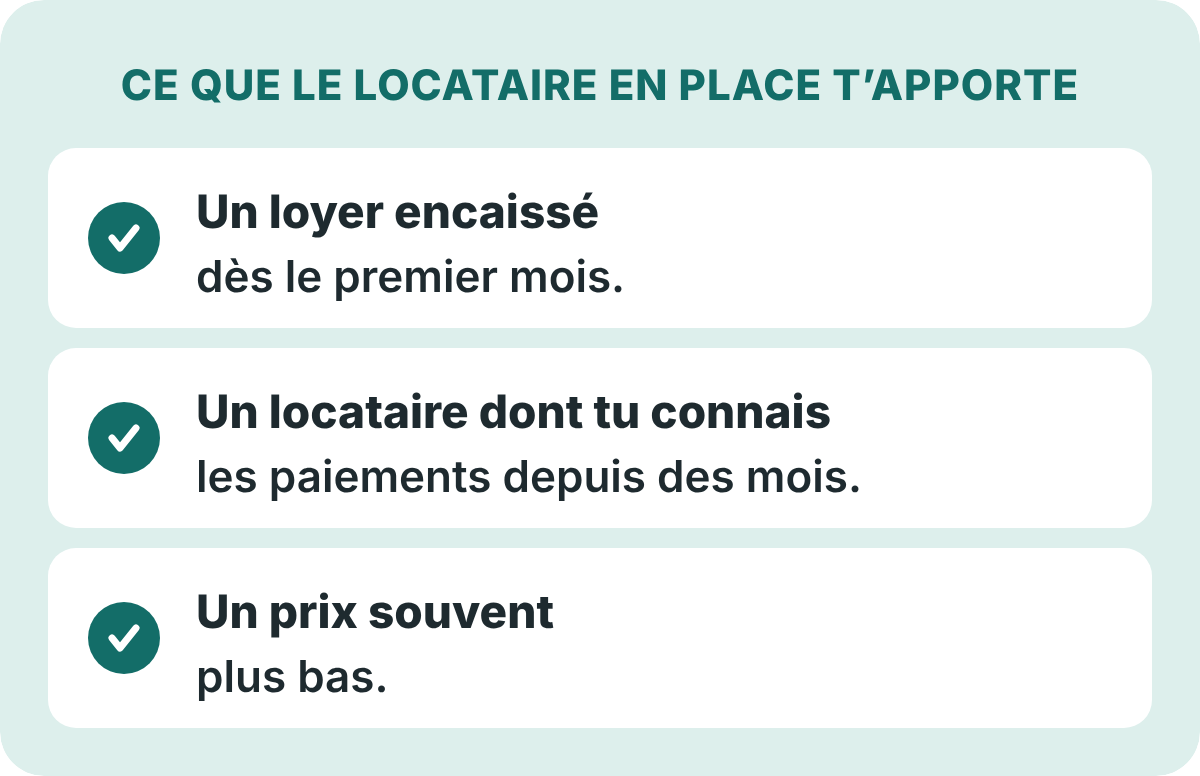
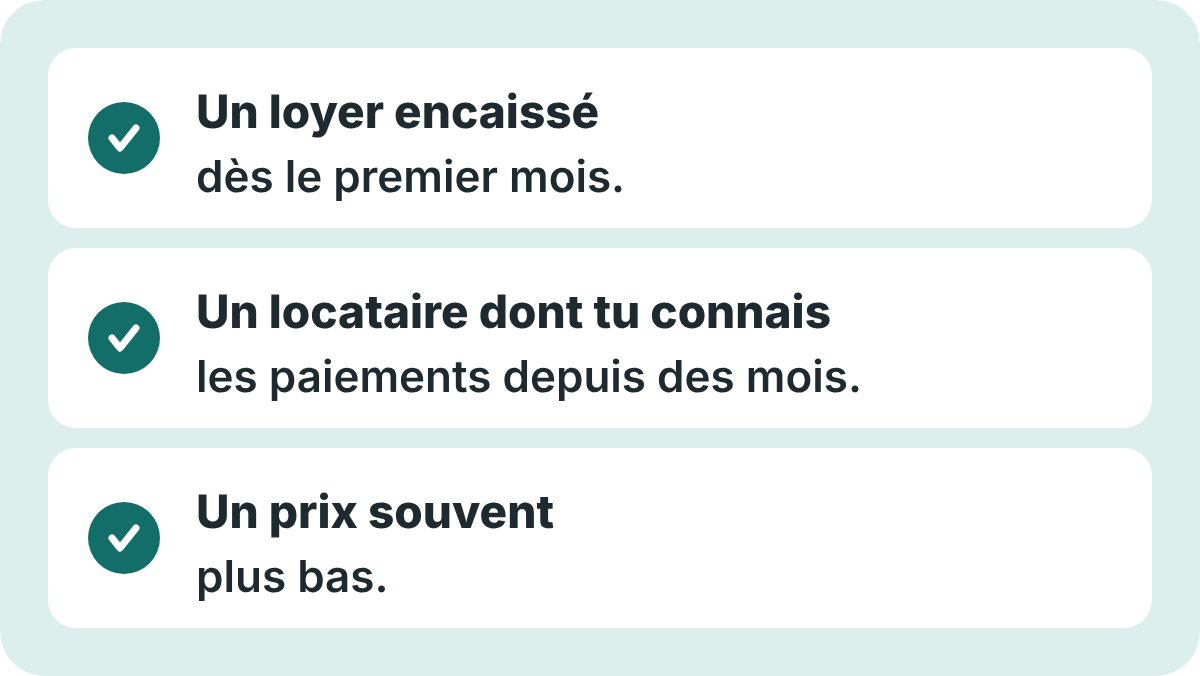
#154 : sans deux-points, sans phrases creuses, titres d'images redondants retirés ; règles 43-44
Claude-Session: https://claude.ai/code/session_01QEEMWNZxp929Pj8nsugEVU

diff --git a/outils/build154b.py b/outils/build154b.py
@@ -100,15 +100,16 @@ A(png("01-hero","Le Journal Débrouya, édition #154 : acheter un bien déjà lo
 A(png("00-will-salut","Will : Salut la famille !",mb=20))
 nb=b(NB) if NB else PH("[NB ABONNÉS]")
 A(P(f"Bienvenue aux {nb} nouveaux abonnés qui nous ont rejoints depuis la dernière édition ! Si tu en fais partie, on est très heureux de te compter parmi les membres de la communauté des Débrouya.",size=17,mb=14))
-A(P("Si le contenu te plaît, partage-le : c’est la plus belle façon de nous soutenir.",size=17,mb=12))
+A(P("Si le contenu te plaît, partage-le, c’est la plus belle façon de nous soutenir.",size=17,mb=12))
 A(f'<p style="margin:0 0 18px 0;text-align:center;">{btn("Invite tes amis à&nbsp;s’abonner&nbsp;→",LINK_SUB,ORANGE,INK)}</p>')
-A(P("📲 Tu veux accéder à nos derniers contenus avant tout le monde ? Rejoins-nous sur :",size=16,color=MUTED,align="center",mb=10))
+A(P("📲 Tu veux accéder à nos derniers contenus avant tout le monde ? Rejoins-nous sur Instagram et YouTube.",size=16,color=MUTED,align="center",mb=10))
 A(f'<p style="margin:0 0 28px 0;text-align:center;">{social_btn("Instagram",LINK_IG,"instagram")}{social_btn("YouTube",LINK_YT,"youtube")}</p>')
 
 
 # ---------------- ARTICLE (depuis le fichier réécrit) ----------------
 import re as _re
-ALTS={'01-hero': 'Le Journal Débrouya, édition #154 : acheter un bien déjà loué.', '00-will-salut': 'Will : Salut la famille !', '02-vide': 'Tu achètes libre, les premiers mois : tu fais les petits travaux, tu publies l’annonce, tu fais les visites, tu choisis ton locataire. Chaque mois, ta mensualité tombe. Et aucun loyer ne rentre.', '03-atouts': 'Ce que le locataire en place t’apporte : un loyer encaissé dès le premier mois ; un locataire dont tu connais les paiements depuis des mois ; un prix souvent plus bas.', '04-decote': "De combien le prix baisse, en général : la plupart des logements loués vides, 10 à 15 % ; petite surface louée vide, 5 à 10 % ; logement loué meublé, en général 0 %. Ordres de grandeur d'une étude notariale, qui dépendent du bail, du loyer et du locataire.", '05-loi': "Le jour où tu achètes : le bail continue avec toi, aux mêmes conditions (loyer, durée, clauses) ; la caution du locataire reste en principe engagée, sauf clause contraire ; l'assurance loyers impayés du vendeur ne se transfère pas ; le dépôt de garantie, c'est toi qui le rendras au locataire, même si tu ne l'as jamais reçu.", '07-delais': "Si un jour tu veux récupérer le logement. Pour le vendre libre : si le bail finit moins de 3 ans après ton achat, ton congé ne joue qu'à la fin du bail renouvelé une fois. Pour y habiter ou loger un proche : si le bail finit moins de 2 ans après ton achat, ton congé ne joue que 2 ans après ton achat. Et toujours prévenir à l'avance : 6 mois avant la fin du bail en location vide, 3 mois en meublé.", '06-will': 'Will : On achète loué pour le garder loué.', '09-will-methode': 'Will : C’est parti, étape par étape.', '10-dossier': 'Le bail signé et ses éventuels avenants ; l’état des lieux d’entrée ; les paiements des 12 derniers mois, quittances ou relevés de compte ; le montant du dépôt de garantie versé par le locataire à son entrée ; l’acte de caution du garant, s’il y en a un.', '11-bail': 'À vérifier : la date de fin du bail, pour savoir où tu en es ; le type de location : vide ou meublée, les règles changent ; le loyer, comparé à ceux du quartier.', '13-exemple': 'Tu achètes le T3 libre : prix d’achat 120 000 € ; loyers perdus pendant 2 mois, 1 400 € ; rentabilité brute 7 % ; coût réel avant le premier loyer, 121 400 €. Tu achètes le T3 loué : prix d’achat 108 000 € ; loyers perdus, 0 € ; rentabilité brute 7,8 % ; coût réel avant le premier loyer, 108 000 €.', '17-will-fin': "C'était Will. Ciao !"}
+ALTS={'01-hero': 'Le Journal Débrouya, édition #154 : acheter un bien déjà loué.', '00-will-salut': 'Will : Salut la famille !', '02-vide': 'Tu achètes libre, les premiers mois : tu fais les petits travaux, tu publies l’annonce, tu fais les visites, tu choisis ton locataire. Chaque mois, ta mensualité tombe. Et aucun loyer ne rentre.', '03-atouts': 'Ce que le locataire en place t’apporte : un loyer encaissé dès le premier mois ; un locataire dont tu connais les paiements depuis des mois ; un prix souvent plus bas.', '04-decote': "De combien le prix baisse, en général : la plupart des logements loués vides, 10 à 15 % ; petite surface louée vide, 5 à 10 % ; logement loué meublé, en général 0 %. Ordres de grandeur d'une étude notariale, qui dépendent du bail, du loyer et du locataire.", '05-loi': "Le bail continue avec toi, aux mêmes conditions (loyer, durée, clauses) ; la caution du locataire reste en principe engagée, sauf clause contraire ; l'assurance loyers impayés du vendeur ne se transfère pas ; le dépôt de garantie, c'est toi qui le rendras au locataire, même si tu ne l'as jamais reçu.", '07-delais': "Si un jour tu veux récupérer le logement. Pour le vendre libre : si le bail finit moins de 3 ans après ton achat, ton congé ne joue qu'à la fin du bail renouvelé une fois. Pour y habiter ou loger un proche : si le bail finit moins de 2 ans après ton achat, ton congé ne joue que 2 ans après ton achat. Et toujours prévenir à l'avance : 6 mois avant la fin du bail en location vide, 3 mois en meublé.", '06-will': 'Will : On achète loué pour le garder loué.', '09-will-methode': 'Will : C’est parti, étape par étape.', '10-dossier': 'Le bail signé et ses éventuels avenants ; l’état des lieux d’entrée ; les paiements des 12 derniers mois, avec les quittances ou les relevés ; le montant du dépôt de garantie versé par le locataire à son entrée ; l’acte de caution du garant, s’il y en a un.', '11-bail': 'À vérifier : la date de fin du bail, pour savoir où tu en es ; le type de location, vide ou meublée, car les règles ne sont pas les mêmes ; le loyer, comparé à ceux du quartier.', '13-exemple': 'Tu achètes le T3 libre : prix d’achat 120 000 € ; loyers perdus pendant 2 mois, 1 400 € ; rentabilité brute 7 % ; coût réel avant le premier loyer, 121 400 €. Tu achètes le T3 loué : prix d’achat 108 000 € ; loyers perdus, 0 € ; rentabilité brute 7,8 % ; coût réel avant le premier loyer, 108 000 €.', '17-will-fin': "C'était Will. Ciao !"}
+ALTS.update({'02-vide': 'Tu fais les petits travaux, tu publies l’annonce, tu fais les visites, tu choisis ton locataire. Chaque mois, ta mensualité tombe. Et aucun loyer ne rentre.', '03-atouts': 'Un loyer encaissé dès le premier mois ; un locataire dont tu connais les paiements depuis des mois ; un prix souvent plus bas.', '04-decote': 'De combien le prix baisse, en général : la plupart des logements loués vides, 10 à 15 % ; studio ou petite surface louée vide, 5 à 10 %. Ce sont des repères nationaux, pas des chiffres antillais.', '05-loi': 'Le bail continue avec toi, avec le même loyer, la même durée et les mêmes clauses ; l’engagement du garant du locataire reste en principe valable, sauf clause contraire ; l’assurance impayés du vendeur ne te suit pas forcément, alors demande le contrat avant de signer ; le dépôt de garantie, c’est toi qui le rendras au locataire, même si tu ne l’as jamais reçu.', '07-delais': 'Tu veux le vendre libre ? Si le bail se termine moins de 3 ans après ton achat, tu attends la fin du bail suivant. Tu veux y habiter, ou y loger un proche ? Si le bail se termine moins de 2 ans après ton achat, tu dois attendre 2 ans à compter de l’achat. Et dans tous les cas, préviens ton locataire au moins 6 mois avant la fin du bail.'})
 def _md(t):
     t=_re.sub(r"\*\*(.+?)\*\*",r"<strong>\1</strong>",t)
     t=_re.sub(r"(?<![*\w])\*(?!\s)(.+?)(?<!\s)\*(?![*\w])",r"<em>\1</em>",t)
@@ -132,7 +133,7 @@ for k,l in enumerate(ART):
             paras=TEM["paras"]
             q="".join(f'<p style="margin:0 0 {14 if k<len(paras)-1 else 0}px 0;font-family:Georgia,serif;font-size:18px;line-height:1.55;color:{INK};font-style:italic;">{t}</p>' for k,t in enumerate(paras))
             q+=f'<p style="margin:14px 0 0 0;font-family:{FONT};font-size:18px;font-weight:bold;color:{INK};">{TEM["prenom"]}</p>'
-            tem=(p(f"Merci à {b(TEM['prenom'])} pour son témoignage ! {TEM['prenom']}, c'est un plaisir de t'avoir avec nous et de partager avec toi nos meilleures ressources chaque semaine. Son message :",size=16,mb=16)+
+            tem=(p(f"Merci à {b(TEM['prenom'])} pour son témoignage ! {TEM['prenom']}, c'est un plaisir de t'avoir avec nous et de partager avec toi nos meilleures ressources chaque semaine. Voici son message.",size=16,mb=16)+
                  f'<table role="presentation" width="100%" cellpadding="0" cellspacing="0" border="0" style="border-collapse:collapse;margin:0 0 16px 0;"><tr><td style="border-left:4px solid {ORANGE};padding:2px 0 2px 16px;">{q}</td></tr></table>')
         else:
             tem=p(PH("[TÉMOIGNAGE À AJOUTER]"),size=16,mb=16)
@@ -158,9 +159,9 @@ flush()
 
 # ---------------- MENTORAT + SIGNATURE ----------------
 A(card(kicker("Tu veux être accompagné ?")+
-       p("Je te propose un programme de mentorat personnalisé :",mb=10)+bullets(["On regarde ta situation.","On définit ta stratégie.","On met en place un plan d'action sur mesure."],color=ORANGE)+
+       p("Je te propose un programme de mentorat personnalisé, en trois temps.",mb=10)+bullets(["On regarde ta situation.","On définit ta stratégie.","On met en place un plan d'action sur mesure."],color=ORANGE)+
        p(b("Et surtout, on avance ensemble.")) +
-       p("Intéressé ? Réponds simplement à ce mail avec le mot :",mb=12)+
+       p("Intéressé ? Réponds simplement à ce mail avec ce mot.",mb=12)+
        f'<p style="margin:0 0 14px 0;text-align:center;"><span style="display:inline-block;background:{ORANGE};color:{INK};border-radius:30px;padding:14px 30px;font-family:{FONT};font-size:22px;letter-spacing:2px;font-weight:bold;">MENTORAT</span></p>'+
        p("…et je te recontacterai pour en discuter. <em>Aucun engagement. Juste une conversation.</em>",size=15,color=MUTED,align="center",mb=0),bl=ORANGE,pad=22,mb=28))
 A(png("17-will-fin","C'était Will. Ciao !",mb=22))

diff --git a/outils/illus154.py b/outils/illus154.py
@@ -85,7 +85,7 @@ g+=(f'<path d="M0 520 C60 506 120 532 180 520 S300 506 360 520 S480 534 540 520 
 out["01-hero"]=svg(600,H,g,TEAL)
 
 # 02. TU ACHÈTES LIBRE
-g=txt(300,50,"TU ACHÈTES LIBRE : LES PREMIERS MOIS",21,TEAL,800,ls=0.5); y=74
+g=""; y=24
 for k,l in enumerate(["Tu fais les petits travaux.","Tu publies l’annonce.","Tu fais les visites.","Tu choisis ton locataire."]):
     g+=f'<rect x="24" y="{y}" width="552" height="58" rx="14" fill="{WHITE}"/><circle cx="58" cy="{y+29}" r="18" fill="{MANGO}"/>'+txt(58,y+37,str(k+1),21,WHITE,800)+txt(92,y+37,l,23,INK,700,anchor="start")
     y+=66
@@ -94,7 +94,7 @@ out["02-vide"]=svg(600,y+118,g,MANGO_L)
 
 # 03. CE QUE LE LOCATAIRE EN PLACE T'APPORTE
 items=[("Un loyer encaissé","dès le premier mois."),("Un locataire dont tu connais","les paiements depuis des mois."),("Un prix souvent","plus bas.")]
-g=txt(300,50,"CE QUE LE LOCATAIRE EN PLACE T’APPORTE",21,TEAL,800,ls=0.5); y=74
+g=""; y=24
 for a_,b2 in items:
     g+=f'<rect x="24" y="{y}" width="552" height="90" rx="14" fill="{WHITE}"/>'+check(62,y+45,TEAL,r=18)+txt(98,y+40,a_,23,INK,800,anchor="start")+txt(98,y+72,b2,22,INK,600,anchor="start")
     y+=100
@@ -112,11 +112,11 @@ g+=txt(300,y+20,"Ce sont des repères nationaux,",21,INK,600)+txt(300,y+50,"pas 
 out["04-decote"]=svg(600,y+76,g,TEAL_L)
 
 # 05. LE JOUR OÙ TU ACHÈTES
-rows=[("Le bail",["Il continue avec toi, aux mêmes","conditions : loyer, durée, clauses."],"ok"),
+rows=[("Le bail",["Il continue avec toi, avec le même loyer,","la même durée et les mêmes clauses."],"ok"),
       ("Le garant du locataire",["Son engagement reste en principe","valable, sauf clause contraire."],"ok"),
-      ("L’assurance impayés du vendeur",["Elle ne te suit pas forcément :","demande le contrat avant de signer."],"warn"),
+      ("L’assurance impayés du vendeur",["Elle ne te suit pas forcément, alors","demande le contrat avant de signer."],"warn"),
       ("Le dépôt de garantie",["C’est toi qui le rendras au locataire,","même si tu ne l’as jamais reçu."],"warn")]
-g=txt(300,50,"LE JOUR OÙ TU ACHÈTES",21,TEAL,800,ls=1); y=74
+g=""; y=24
 for who,what,st in rows:
     h=52+32*len(what)
     g+=f'<rect x="24" y="{y}" width="552" height="{h}" rx="14" fill="{WHITE}"/>'
@@ -125,21 +125,20 @@ for who,what,st in rows:
     y+=h+10
 out["05-loi"]=svg(600,y+14,g,TEAL_L)
 
-# 07. DÉLAIS (LOCATION VIDE)
-g=txt(300,50,"LOCATION VIDE : LES DÉLAIS APRÈS L’ACHAT",21,TEAL,800,ls=0.5)
-cards=[("Pour le vendre libre",["Si le bail finit moins de 3 ans après","ton achat, ton congé ne prend effet","qu’à la fin du bail renouvelé une fois."]),
-       ("Pour y habiter ou loger un proche",["Si le bail finit moins de 2 ans après","ton achat, ton congé ne prend effet","que 2 ans après ton achat."])]
-y=74
+# 07. DÉLAIS (LOCATION VIDE) — phrases courtes, faciles à lire à voix haute
+cards=[("Tu veux le vendre libre ?",["Si le bail se termine moins de 3 ans","après ton achat, tu attends la fin","du bail suivant."]),
+       ("Tu veux y habiter, ou y loger un proche ?",["Si le bail se termine moins de 2 ans","après ton achat, tu dois attendre","2 ans à compter de l’achat."])]
+g=""; y=24
 for title,lines in cards:
     h=56+32*len(lines)
     g+=f'<rect x="24" y="{y}" width="552" height="{h}" rx="14" fill="{WHITE}"/><rect x="24" y="{y}" width="10" height="{h}" fill="{MANGO}"/>'
     g+=txt(50,y+38,title,22,MANGO_D,800,anchor="start")+"".join(txt(50,y+72+j*32,l,21,INK,600,anchor="start") for j,l in enumerate(lines))
     y+=h+12
-g+=f'<rect x="24" y="{y}" width="552" height="88" rx="14" fill="{TEAL}"/>'+txt(300,y+38,"Dans tous les cas, préviens ton locataire",21,WHITE,800)+txt(300,y+68,"au moins 6 mois avant la fin du bail.",21,WHITE,700)
+g+=f'<rect x="24" y="{y}" width="552" height="88" rx="14" fill="{TEAL}"/>'+txt(300,y+38,"Et dans tous les cas, préviens ton locataire",21,WHITE,800)+txt(300,y+68,"au moins 6 mois avant la fin du bail.",21,WHITE,700)
 out["07-delais"]=svg(600,y+112,g,MANGO_L)
 
 # 10. LE DOSSIER À DEMANDER
-items=[("Le bail signé","et ses éventuels avenants."),("L’état des lieux d’entrée","signé à l’arrivée du locataire."),("Les paiements des 12 derniers mois :","quittances ou relevés de compte."),("Le montant du dépôt de garantie","versé par le locataire à son entrée."),("L’acte de caution du garant,","s’il y en a un.")]
+items=[("Le bail signé","et ses éventuels avenants."),("L’état des lieux d’entrée","signé à l’arrivée du locataire."),("Les paiements des 12 derniers mois,","avec les quittances ou les relevés."),("Le montant du dépôt de garantie","versé par le locataire à son entrée."),("L’acte de caution du garant,","s’il y en a un.")]
 g=""; y=24
 for a_,b2 in items:
     g+=f'<rect x="24" y="{y}" width="552" height="86" rx="14" fill="{WHITE}"/>'+check(60,y+43,TEAL,r=17)+txt(92,y+38,a_,22,INK,800,anchor="start")+txt(92,y+70,b2,21,INK,600,anchor="start")
@@ -147,7 +146,7 @@ for a_,b2 in items:
 out["10-dossier"]=svg(600,y+14,g,TEAL_L)
 
 # 11. LIRE LE BAIL : 3 POINTS (numéros dessinés)
-rows=[("La date de fin du bail,","pour savoir où tu en es."),("Le type de location :","vide ou meublée, les règles changent."),("Le loyer,","comparé à ceux du quartier.")]
+rows=[("La date de fin du bail,","pour savoir où tu en es."),("Le type de location, vide ou meublée,","car les règles ne sont pas les mêmes."),("Le loyer,","comparé à ceux du quartier.")]
 g=""; y=24
 for k,(a_,b2) in enumerate(rows):
     g+=f'<rect x="24" y="{y}" width="552" height="90" rx="14" fill="{WHITE}"/><circle cx="64" cy="{y+45}" r="22" fill="{MANGO}"/>'+txt(64,y+54,str(k+1),23,WHITE,800)+txt(102,y+40,a_,23,INK,800,anchor="start")+txt(102,y+72,b2,22,INK,600,anchor="start")

diff --git a/outils/article154.md b/outils/article154.md
@@ -1,83 +1,85 @@
-[PROGRAMME] L’annonce que tu fais défiler trop&nbsp;vite | Le locataire en place joue pour&nbsp;toi | Ce que la loi dit vraiment | Ta méthode en 4&nbsp;étapes pour acheter&nbsp;loué | L’exemple chiffré : un T3 en&nbsp;Martinique
+[PROGRAMME] L’annonce que tu fais défiler trop&nbsp;vite | Le locataire en place joue pour&nbsp;toi | Ce que la loi dit vraiment | Ta méthode en 4&nbsp;étapes pour acheter&nbsp;loué | L’exemple chiffré avec un T3 en&nbsp;Martinique
 ## L’annonce que tu fais défiler trop vite
-§ Imagine : tu cherches un bien pour investir, et tu fais défiler les annonces sur ton téléphone.
-§ Et d’un coup, tu tombes sur cette petite mention : **« vendu loué »**.
+§ Imagine. Tu cherches un bien pour investir, et tu fais défiler les annonces sur ton téléphone.
+§ Et d’un coup, tu tombes sur cette petite mention, **« vendu loué »**.
 § Ton premier réflexe ? Passer à l’annonce suivante. Parce que dans ta tête, un locataire déjà dans les murs, ça sent les ennuis, et tout de suite tu te dis :
 → « Je ne vais pas pouvoir choisir mon locataire. »
 → « Et si c’est un mauvais payeur ? »
 § Ces craintes, je les comprends, et on va y répondre une par une. Mais avant, je veux que tu regardes les choses dans l’autre sens.
-§ Prends le cas inverse : tu achètes un bien libre pour le louer. Qu’est-ce qui se passe, le lendemain de la signature ?
+§ Prends un bien libre, que tu achètes pour le louer. Qu’est-ce qui se passe, le lendemain de la signature ?
 [IMAGE 02-vide]
 !! Et ces mensualités-là, tu les paies de ta poche.
 ## Le locataire en place joue pour toi
-§ Avec un bien déjà loué, ce problème-là n’existe pas. Alors pourquoi autant d’acheteurs fuient ce genre d’annonce ?
-§ Parce que tout dépend de qui la regarde. Pour quelqu’un qui veut habiter le logement, un locataire en place, c’est un obstacle.
-§ Mais toi, tu n’achètes pas pour habiter : tu achètes pour louer. Et là, ce qui gêne les autres devient un avantage pour toi. Regarde plutôt :
+§ Avec un bien déjà loué, ce problème-là n’existe pas. Alors pourquoi tant d’acheteurs passent à côté de ce genre d’annonce ?
+§ Parce que la plupart des gens achètent pour y habiter. Et pour eux, un locataire en place, c’est un obstacle.
+§ Toi, en revanche, tu achètes pour louer. Et ce qui gêne les autres devient alors ton avantage.
 [IMAGE 03-atouts]
-§ Le dernier point, on s’y arrête une seconde. Pourquoi un bien loué se vend moins cher ? C’est simple : celui qui veut y vivre ne peut pas s’y installer tout de suite.
-§ Résultat : moins d’acheteurs se battent pour ce bien, et le vendeur doit souvent lâcher du prix. Pour te donner un ordre d’idée :
+§ Et pourquoi un bien loué se vend moins cher ?
+§ Tout simplement parce que celui qui veut y vivre ne peut pas s’y installer tout de suite.
+§ Résultat, moins d’acheteurs se battent pour ce bien, et le vendeur doit souvent lâcher du prix.
 [IMAGE 04-decote]
-§ Et pour un meublé ? C’est plus flou : les repères varient davantage d’une source à l’autre.
-§ Retiens surtout ça : ce que les autres prennent pour un défaut, toi, tu t’en sers pour **négocier**.
+§ Et pour un meublé ? Là, c’est plus flou, parce que les repères varient davantage d’une source à l’autre.
+§ Dans tous les cas, cette décote, c’est ton meilleur argument pour **négocier**.
 ## Ce que la loi dit vraiment
-§ Reste une question, et pas la moindre : qu’est-ce que la loi t’impose quand tu rachètes un logement avec quelqu’un dedans ? Avant de foncer, il faut connaître les règles du jeu.
-§ Premier point, ce qui change pour toi dès la signature :
+§ Mais qu’est-ce que la loi t’impose, concrètement, quand tu rachètes un logement avec quelqu’un dedans ?
+§ Premier point, voilà ce qui se passe pour toi dès la signature.
 [IMAGE 05-loi]
-§ En clair, tu prends la place du vendeur, avec ses droits et ses obligations. Et pour le dépôt de garantie, pas de panique : on verra à l’étape 3 comment éviter de le sortir de ta poche.
-§ Deuxième point à bien avoir en tête : tu ne pourras pas reprendre le logement **quand bon te semble**.
-§ Si le logement est loué vide, la loi prévoit des délais spéciaux, selon ce que tu veux en faire ensuite :
+§ En clair, tu prends la place du vendeur, avec ses droits et ses obligations. Et pour le dépôt de garantie, pas de panique, on verra à l’étape 3 comment éviter de le sortir de ta poche.
+§ Deuxième point à bien avoir en tête, tu ne pourras pas reprendre le logement **quand bon te semble**.
+§ Si le bien est loué vide, la loi prévoit des délais spéciaux, qui dépendent de ce que tu veux en faire ensuite.
 [IMAGE 07-delais]
-§ Autrement dit, si tu comptes récupérer le logement vite, tu risques d’attendre bien plus longtemps que prévu.
-§ En meublé, c’est plus simple : il n’y a pas de délai spécial après l’achat. Tu peux donner congé pour la fin du bail, avec 3 mois de préavis.
-§ Et que ce soit vide ou meublé, un locataire âgé aux revenus modestes est **protégé**. Si tu tombes sur ce profil, pose la question avant d’acheter à ton notaire ou à l’ADIL (l’agence départementale d’information sur le logement).
-§ Tu l’as compris, tout ça mène à une seule règle :
+§ Autrement dit, si tu comptes récupérer ton bien rapidement, tu risques d’attendre bien plus longtemps que prévu.
+§ En meublé, c’est plus simple, puisqu’il n’y a pas de délai spécial après l’achat. Tu peux donner congé pour la fin du bail, avec 3 mois de préavis.
+§ Et que ce soit vide ou meublé, un locataire âgé aux revenus modestes est **protégé**.
+§ Alors si tu tombes sur ce profil, pose la question à ton notaire ou à l’ADIL (l’agence départementale d’information sur le logement) avant d’acheter.
+§ Tu l’as compris, tout ça mène à une seule règle.
 [IMAGE 06-will]
 !! Pas pour le reprendre l’année prochaine.
 ## Ta méthode en 4 étapes pour acheter loué
-§ Tu connais maintenant les règles du jeu. Reste à savoir comment t’y prendre, le jour où tu tombes sur la bonne annonce.
+§ Maintenant que tu connais le cadre, voyons comment t’y prendre le jour où tu tombes sur la bonne annonce.
 [IMAGE 09-will-methode]
 ### Étape 1 — Demande le dossier locatif complet avant ton offre
-§ Le principe est simple : ne fais jamais d’offre à l’aveugle sur un bien loué. Avant même de parler prix, le vendeur ou l’agence doit pouvoir te fournir :
+§ Le principe est simple, ne fais jamais d’offre à l’aveugle sur un bien loué. Avant même de parler prix, le vendeur ou l’agence doit pouvoir te fournir tous ces documents.
 [IMAGE 10-dossier]
 § Un vendeur sérieux n’a aucune raison de refuser. S’il traîne des pieds, pose-toi des questions.
 ### Étape 2 — Lis le bail comme si tu allais le signer toi-même
-§ Une fois le dossier en main, ouvre le bail et prends ton temps. Parce qu’à partir de la vente, ce bail devient **le tien**.
-§ Regarde d’abord trois choses :
+§ Une fois le dossier en main, ouvre le bail et prends ton temps. Parce qu’à partir de la vente, il devient **le tien**.
+§ Regarde d’abord ces trois choses.
 [IMAGE 11-bail]
-§ Le loyer, justement, compte plus que tu ne le crois. En cours de bail, tu ne peux pas l’augmenter comme tu veux : tu as seulement droit à la révision annuelle sur l’indice des loyers, et encore, si le bail la prévoit.
-§ Et regarde bien le DPE, le diagnostic de performance énergétique. S’il est classé F ou G, les deux plus mauvaises notes, le loyer ne peut pas augmenter du tout.
-§ Ton calcul de rentabilité, fais-le avec le **loyer réel**, pas avec celui que tu espères.
+§ Le loyer, justement, compte plus que tu ne le crois. Car en cours de bail, tu ne peux pas l’augmenter comme tu veux. Tu as seulement droit à la révision annuelle sur l’indice des loyers, et encore, si le bail la prévoit.
+§ Et vérifie aussi le DPE, le diagnostic de performance énergétique. S’il est classé F ou G, les deux plus mauvaises notes, le loyer ne peut pas augmenter du tout.
+§ Ton calcul de rentabilité, fais-le donc avec le **loyer réel**, pas avec celui que tu espères.
 ### Étape 3 — Négocie avec ce que tu as trouvé
-§ Et c’est là que ton travail paie. Avec le dossier et le bail sous les yeux, tu as de vrais arguments pour discuter le prix. Selon les cas, tu peux faire remarquer au vendeur que :
+§ Avec le dossier lu et le bail décortiqué, tu n’arrives plus les mains vides pour discuter le prix. Au contraire, tu as de vrais arguments, et selon les cas, tu peux faire remarquer au vendeur que :
 → le bien est occupé, donc il intéresse moins d’acheteurs ;
 → le loyer est en dessous du marché ;
 → l’historique montre des retards de paiement.
-§ Mais surtout, règle la question du dépôt de garantie **noir sur blanc** : fais écrire dans l’acte que le vendeur te le reverse le jour de la vente.
-§ En pratique, le notaire le retient sur la somme versée au vendeur. Comme ça, quand le locataire partira, c’est cet argent-là qui servira, pas le tien.
+§ Et pendant que tu négocies, profites-en pour régler la question du dépôt de garantie **noir sur blanc**. Concrètement, fais écrire dans l’acte que le vendeur te le reverse le jour de la vente.
+§ Le notaire le retient alors sur la somme versée au vendeur. Comme ça, quand le locataire partira, c’est cet argent-là qui servira, pas le tien.
 § Sans cette clause, tu le rendras quand même, et ce sera à toi d’aller le réclamer au vendeur. Autant t’éviter ça.
 ### Étape 4 — Prends le relais proprement le jour de la signature
-§ Une fois l’acte signé, c’est toi le bailleur. Prends tout de suite ces bons réflexes :
-→ envoie tes coordonnées au locataire : c’est une obligation pour toi ;
+§ L’acte signé, c’est officiel, tu deviens le bailleur. Et dès ce jour-là, quelques réflexes s’imposent :
+→ envoie tes coordonnées au locataire, c’est une obligation pour toi ;
 → donne-lui par écrit le nouveau compte sur lequel verser le loyer ;
-→ assure le logement à ton nom (assurance propriétaire non occupant) : en copropriété, c’est obligatoire ;
-→ si l’assurance impayés du vendeur ne te suit pas, souscris la tienne dès ce jour-là.
-§ Parce qu’au fond, tu n’achètes pas seulement un bien : tu reprends aussi une **relation**.
+→ assure le logement à ton nom avec une assurance propriétaire non occupant, obligatoire en copropriété ;
+→ et si l’assurance impayés du vendeur ne te suit pas, souscris la tienne tout de suite.
+§ Parce qu’au fond, tu n’achètes pas seulement un bien. Tu reprends aussi une **relation**.
 !! Alors commence-la bien.
-## L’exemple chiffré : un T3 en Martinique
+## L’exemple chiffré avec un T3 en Martinique
 § Tout ça, c’est la théorie. Mais concrètement, qu’est-ce que ça change pour ton portefeuille ?
-§ Prenons un T3 en Martinique, loué vide à 700 € par mois hors charges. Dans le quartier, le même type de T3 vendu libre se négocie autour de 120 000 €.
+§ Prenons un T3 en Martinique, loué vide à 700 € par mois hors charges. Dans le quartier, un appartement équivalent vendu libre se négocie autour de 120 000 €.
 § *(C’est un exemple fictif aux chiffres ronds, pas une moyenne du marché.)*
-§ Sauf que celui-ci est vendu loué. Tu négocies, et tu l’obtiens avec 10 % de décote : 108 000 €.
-§ Maintenant, compare avec le même T3 acheté libre. Là, il faut compter 2 mois sans loyer, le temps de le préparer et de trouver ton locataire :
+§ Seulement, celui-ci est vendu loué. Alors tu t’en sers pour négocier, et tu l’obtiens avec 10 % de décote, soit 108 000 €.
+§ Maintenant, compare avec le même T3 acheté libre. Là, il faut compter 2 mois sans loyer, le temps de le préparer et de trouver ton locataire.
 [IMAGE 13-exemple]
 § Tu te demandes d’où sortent ces pourcentages ? La rentabilité brute, ce sont les loyers de l’année (700 € × 12 = 8 400 €) divisés par le prix. Ça donne 8 400 € ÷ 120 000 € d’un côté, et 8 400 € ÷ 108 000 € de l’autre.
-[ENCADRÉ] Résultat : tu mets 13 400 € de moins sur la table pour le même loyer, et tu gagnes près de 0,8 point de rentabilité brute.
+[ENCADRÉ] Au final, tu mets 13 400 € de moins sur la table pour le même loyer, et tu gagnes près de 0,8 point de rentabilité brute.
 § Et encore, je ne compte pas les frais de notaire, qui baissent eux aussi avec le prix.
-§ Ajoute à ça le dépôt de garantie (ici 700 €, le maximum en location vide) : si tu l’as fait écrire dans l’acte, tu le récupères dès la vente.
-§ Attention quand même : tout ça ne marche que si le dossier tient la route. Et il y a des choses que la décote ne rattrape pas :
+§ Pense aussi au dépôt de garantie, ici 700 €, soit le maximum en location vide. Si tu as fait écrire dans l’acte que le vendeur te le reverse, tu le récupères dès la vente.
+§ Attention quand même, tout ça ne marche que si le dossier tient la route. Car il y a des choses que la décote ne rattrape pas, comme :
 → un locataire qui paie mal ;
 → un loyer très en dessous du marché ;
 → un bail qui ne te convient pas.
-§ C’est pour ça que l’étape 1 n’est pas optionnelle : c’est le dossier qui te dit si l’affaire est bonne.
+§ C’est pour ça que l’étape 1 n’est pas optionnelle. Sans dossier complet, impossible de savoir si l’affaire est bonne.
 § Alors la prochaine fois que tu tombes sur « vendu loué », ne passe pas trop vite à l’annonce suivante.
-!! Quand le dossier est bon, cette mention veut dire une chose : un bien qui travaille pour toi dès le premier mois.
+!! Quand le dossier est bon, cette mention cache souvent un bien qui travaille pour toi dès le premier mois.

diff --git a/outils/REGLES.md b/outils/REGLES.md
@@ -53,8 +53,9 @@
 40. Couverture (01-hero) toujours en JPG (~200 Ko) : en PNG elle pèse 1,4 Mo. Aucune image du mail au-dessus de ~300 Ko. Le dépôt d'images doit rester sous ~40 Mo (limite jsDelivr 50 Mo par version) : poses de Will stockées en 900 px.
 41. Après chaque publication, tester dans un vrai navigateur que TOUTES les images du mail se chargent depuis jsDelivr (pas seulement comparer les fichiers dans GitHub). Juste après un push, jsDelivr peut répondre 404 « Failed to fetch the requested commit » sur certains fichiers et garder cette erreur en cache : purger chaque fichier en erreur (https://purge.jsdelivr.net/gh/VediGze/debrouya-assets@<SHA>/<fichier>) puis retester jusqu'à 100 % OK avant de livrer.
 42. Fluidité : le texte se lit d'une traite, à voix haute, comme Will qui raconte. Chaque partie s'ouvre par une phrase-pont avec la précédente ; chaque image est amenée par une phrase qui donne envie de la regarder et suivie d'une conséquence (sans répéter l'image) ; connecteurs logiques variés ; pas de phrases « d'annonce » creuses (« Les sites spécialisés donnent des ordres de grandeur : ») ; découper pour le téléphone ne doit jamais casser l'enchaînement. Processus : texte de l'article écrit au balisage (article NNN.md : §, →, !!, [IMAGE], [ENCADRÉ], ##, ###), réécriture « transitions » par un sous-agent, puis relecture « à voix haute » par un autre sous-agent qui corrige le fichier, avant les relectures habituelles.
-
-## Relecture obligatoire avant de rendre (à refaire jusqu'à ne plus rien trouver)
+43. Deux-points : Steny les déteste. Aucun deux-points dans le texte du mail, remplacé par un connecteur, une virgule ou un point (« Résultat, … », « Concrètement, … »). Seule exception : la phrase qui introduit une liste à flèches. Même règle dans les textes des images autant que possible.
+44. Phrases creuses interdites : pas de phrase qui ne fait qu'annoncer la suite ou une image (« Le dernier point, on s'y arrête une seconde. », « Pour te donner un ordre d'idée : », « Avant de foncer, il faut connaître les règles du jeu. »). Pas de titre d'image qui répète la phrase juste avant (supprimer le titre : la phrase d'amorce suffit). Textes des images en phrases courtes, faciles à lire à voix haute (« Tu veux le vendre libre ? Si le bail se termine… »).
+ avant de rendre (à refaire jusqu'à ne plus rien trouver)
 Passe 1 — Texte : extraire tout le texte du mail dans l'ordre de lecture et le relire phrase par phrase :
 - accords tu/vous (« tu » = un lecteur ; groupe = « vous » ; « Bienvenue aux N abonnés… si tu en fais partie »), 3e personne → 2e personne (« Merci à Annick… Annick, c'est un plaisir de t'avoir »)
 - phrases bancales (« parce que… mais »), répétitions avec le pied de mail, logique des enchaînements
